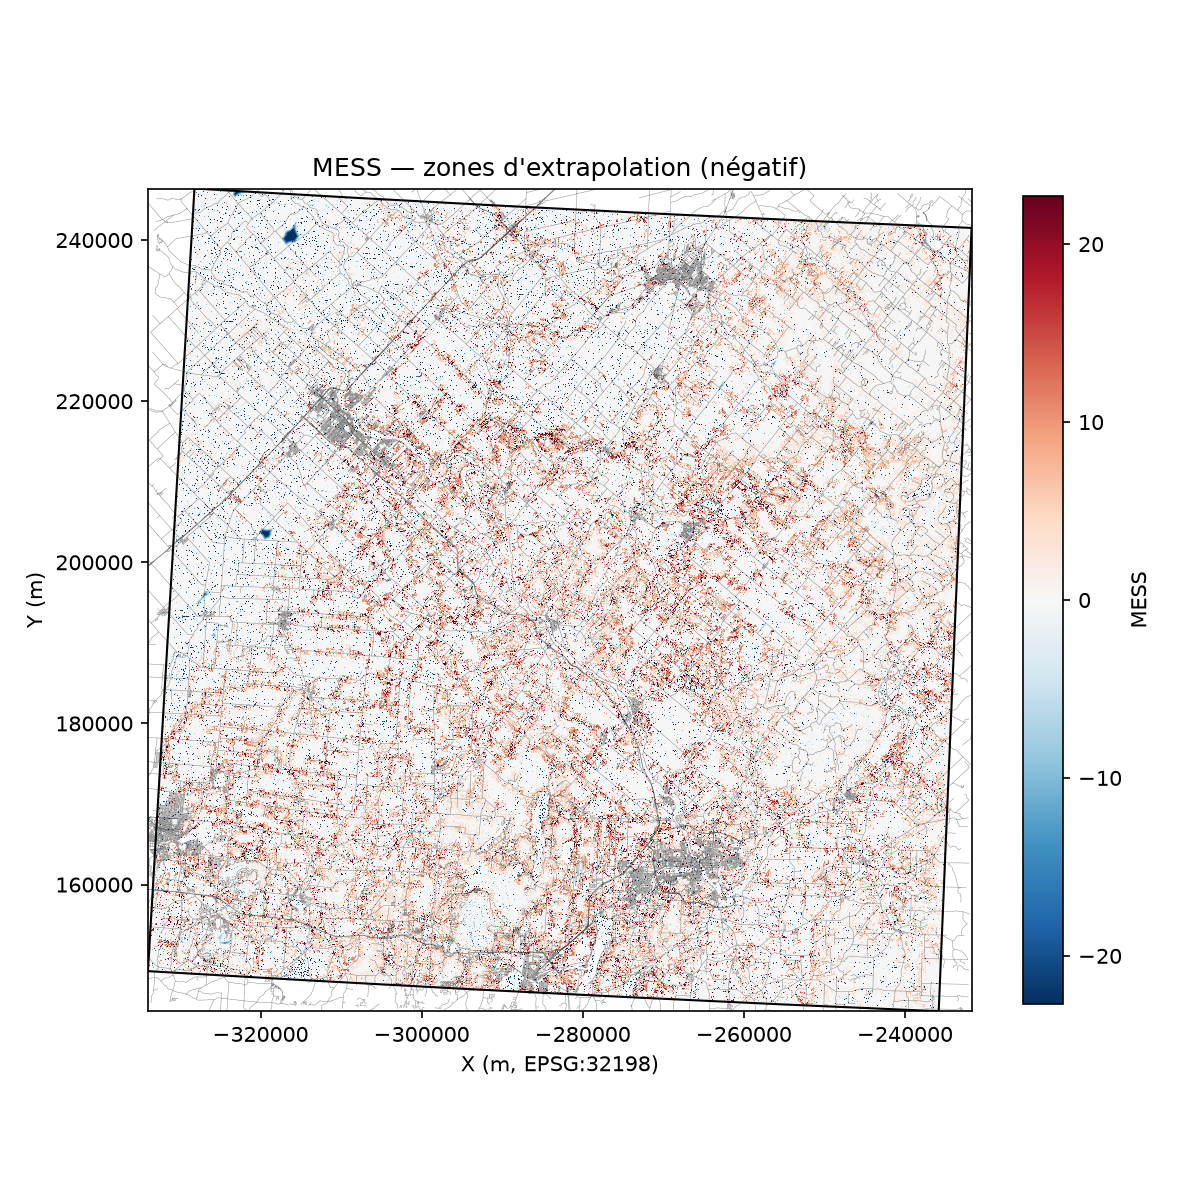
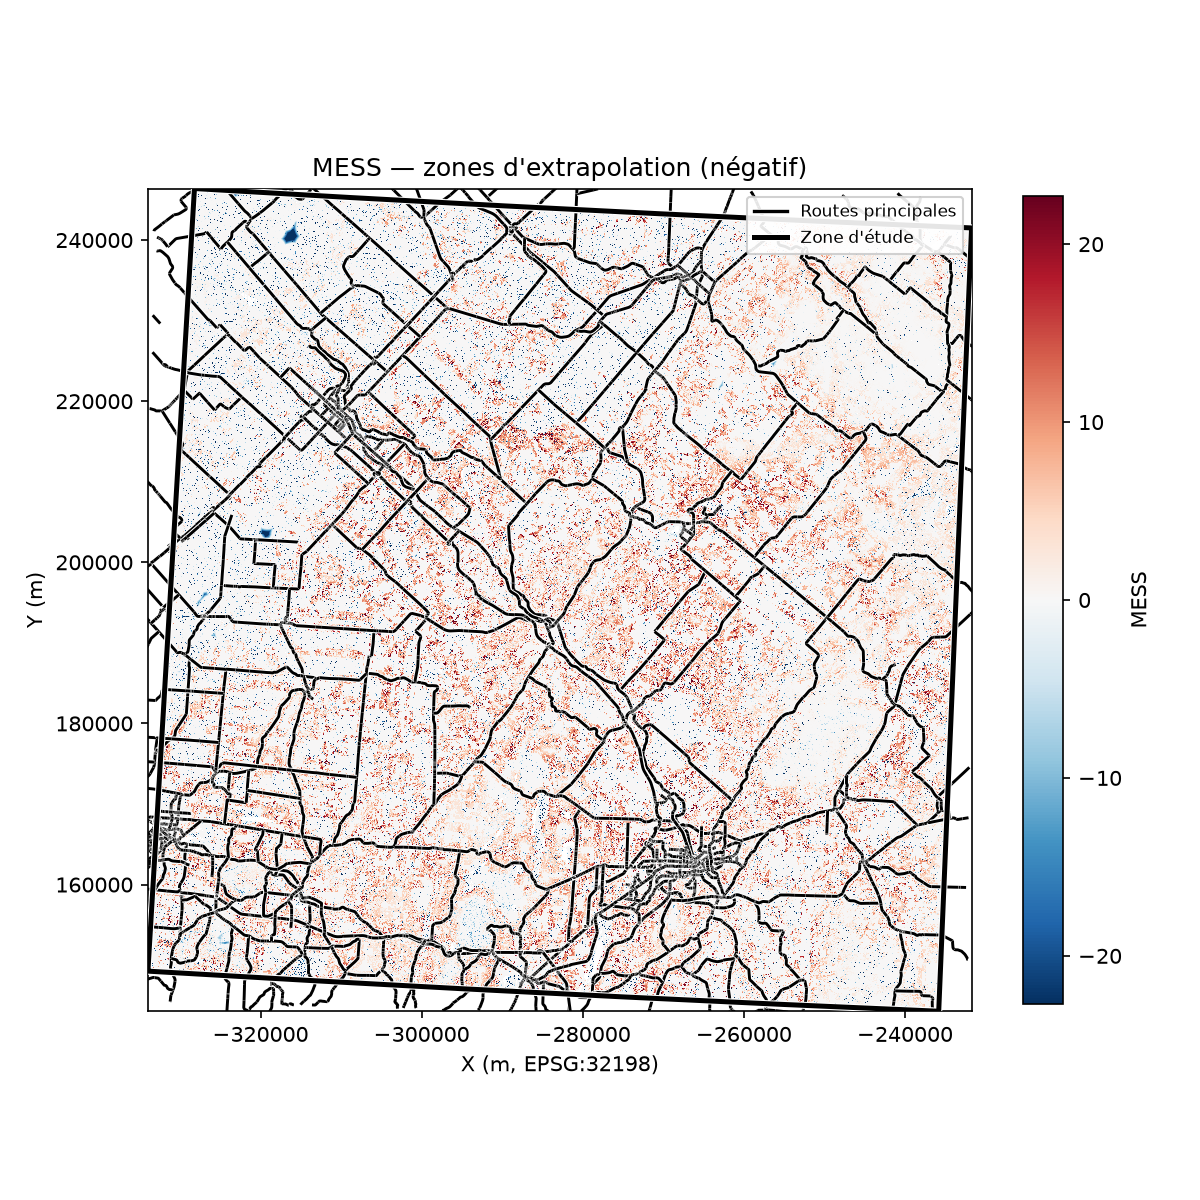
feat(figures): routes principales, légendes, figures SHAP/diagnostic & distribution eBird
- Cartes de résultat : routes principales seulement (config figures.routes_classes_
  principales, 10 531/41 829 tronçons), tracé foncé + liseré blanc (path effects) pour
  la visibilité sur tout fond, et légende (routes/zone/hotspots).
- Carte de localisation : sans hotspots, avec légende.
- Nouvelles figures d'interprétation : SHAP beeswarm (habitat), dépendance SHAP de
  l'élévation (seuil ~130 m), diagnostic du proxy spatial (importance sans/avec x,y).
- Cartes de distribution eBird (observations, toutes checklists, et checklists en
  fenêtre de détection crépuscule→nuit ~5 % de l'effort) : écrites dans
  outputs/figures/prive/ IGNORÉ par Git (espèce en péril + confidentialité eBird).
- Tests : carte routes+légende, fig_points_ebird, figures SHAP/diagnostic.

Changed region(s): [[0.1233, 0.1542, 0.8325, 0.8633]]

diff --git a/code/05_figures.py b/code/05_figures.py
@@ -2,10 +2,11 @@
 
 Génère, à partir des sorties J5/J6, les PNG du rapport :
 - cartes probabilité / incertitude (variance inter-arbres) / MESS — **raster opaque** avec
-  le réseau routier du Québec en surimpression, l'emprise de la zone et les hotspots ;
-- une **carte de localisation** (fond OSM contextily) pour situer la zone d'étude ;
+  les **routes principales** (liseré blanc), l'emprise de la zone, les hotspots et une **légende** ;
+- une **carte de localisation** (fond OSM contextily) pour situer la zone d'étude (sans hotspots) ;
 - importance par permutation (modèle habitat), PDP des 10 variables d'habitat,
-  métriques de validation croisée spatiale (AUC-ROC + TSS par fold, 2 modèles).
+  métriques de validation croisée spatiale (AUC-ROC + TSS par fold, 2 modèles) ;
+- **SHAP** (beeswarm + dépendance de l'élévation) et **diagnostic** du proxy spatial de l'élévation.
 
 Sorties : outputs/figures/*.png
 """
@@ -73,7 +74,9 @@ def _fond_osm(ax, crs, log_warn=True) -> None:
 def fig_carte(raster_path: str, titre: str, label: str, sortie: str, cmap: str = "viridis",
               vmin=None, vmax=None, centre0=False, fidele=False, zone=None, routes=None,
               hotspots=None) -> str:
-    """Carte d'un raster de résultat : raster OPAQUE + routes + emprise + hotspots (sans fond OSM)."""
+    """Carte d'un raster : raster OPAQUE + routes principales + emprise + hotspots + légende."""
+    import matplotlib.patheffects as pe
+    from matplotlib.lines import Line2D
     arr, extent, _ = _lire_decime(raster_path, fidele=fidele)
     if centre0:
         lim = float(np.nanpercentile(np.abs(arr[np.isfinite(arr)]), 98))  # borne robuste (outliers)
@@ -81,16 +84,26 @@ def fig_carte(raster_path: str, titre: str, label: str, sortie: str, cmap: str =
     fig, ax = plt.subplots(figsize=(8, 8))
     im = ax.imshow(arr, extent=extent, origin="upper", cmap=cmap, vmin=vmin, vmax=vmax,
                    interpolation="nearest", zorder=1)
-    if routes is not None:
-        routes.plot(ax=ax, color="0.15", linewidth=0.25, alpha=0.5, zorder=2)
+    halo = [pe.withStroke(linewidth=2.4, foreground="white")]  # filet blanc : routes visibles sur tout fond
+    halo_zone = [pe.withStroke(linewidth=3.4, foreground="white")]
+    handles = []
+    if routes is not None and len(routes):
+        routes.plot(ax=ax, color="black", linewidth=1.4, alpha=1.0, zorder=2, path_effects=halo)
+        handles.append(Line2D([0], [0], color="black", lw=1.6, path_effects=halo,
+                              label="Routes principales"))
     if zone is not None:
-        zone.boundary.plot(ax=ax, edgecolor="black", linewidth=1.0, zorder=3)
+        zone.boundary.plot(ax=ax, edgecolor="black", linewidth=2.4, zorder=3, path_effects=halo_zone)
+        handles.append(Line2D([0], [0], color="black", lw=2.4, path_effects=halo_zone,
+                              label="Zone d'étude"))
     if hotspots is not None and len(hotspots):
         hotspots.boundary.plot(ax=ax, edgecolor="#00ff00", linewidth=1.5, zorder=4)
         for _, h in hotspots.iterrows():
             c = h.geometry.centroid
             ax.annotate(str(h["rang"]), (c.x, c.y), color="#00ff00", fontsize=9, ha="center",
                         va="center", fontweight="bold", zorder=5)
+        handles.append(Line2D([0], [0], color="#00ff00", lw=1.5, label="Hotspots (rang)"))
+    if handles:
+        ax.legend(handles=handles, loc="upper right", fontsize=8, framealpha=0.9)
     ax.set_xlim(extent[0], extent[1])
     ax.set_ylim(extent[2], extent[3])
     ax.set_title(titre)
@@ -103,19 +116,54 @@ def fig_carte(raster_path: str, titre: str, label: str, sortie: str, cmap: str =
     return sortie
 
 
-def fig_localisation(zone, sortie: str, hotspots=None, marge: float = 0.15, fond=True) -> str:
-    """Carte de localisation : emprise de la zone (+ hotspots) sur fond OSM."""
+def fig_localisation(zone, sortie: str, marge: float = 0.15, fond=True) -> str:
+    """Carte de localisation : emprise de la zone d'étude sur fond OSM (sans hotspots)."""
+    from matplotlib.lines import Line2D
     fig, ax = plt.subplots(figsize=(8, 8))
     zone.boundary.plot(ax=ax, edgecolor="red", linewidth=1.8, zorder=3)
-    if hotspots is not None and len(hotspots):
-        hotspots.centroid.plot(ax=ax, color="red", markersize=25, zorder=4)
     minx, miny, maxx, maxy = zone.total_bounds
     dx, dy = (maxx - minx) * marge, (maxy - miny) * marge
     ax.set_xlim(minx - dx, maxx + dx)
     ax.set_ylim(miny - dy, maxy + dy)
     if fond:
         _fond_osm(ax, zone.crs)
+    ax.legend(handles=[Line2D([0], [0], color="red", lw=1.8, label="Zone d'étude")],
+              loc="upper right", fontsize=8, framealpha=0.9)
     ax.set_title("Localisation de la zone d'étude")
+    ax.set_xlabel("X (m, EPSG:32198)")
+    ax.set_ylabel("Y (m)")
+    fig.tight_layout()
+    fig.savefig(sortie, dpi=150)
+    plt.close(fig)
+    return sortie
+
+
+def fig_points_ebird(zone, couches: list[dict], sortie: str, titre: str, marge: float = 0.12,
+                     fond=True) -> str:
+    """Carte de points eBird sur fond OSM (distribution spatiale).
+
+    `couches` : liste de dicts {x, y, couleur, taille?, alpha?, edge?, label}, tracés dans l'ordre.
+    ⚠ Données sensibles (espèce en péril + confidentialité eBird) : à écrire hors dépôt.
+    """
+    from matplotlib.lines import Line2D
+    fig, ax = plt.subplots(figsize=(8, 8))
+    zone.boundary.plot(ax=ax, edgecolor="black", linewidth=1.5, zorder=2)
+    handles = [Line2D([0], [0], color="black", lw=1.5, label="Zone d'étude")]
+    for i, c in enumerate(couches):
+        ax.scatter(np.asarray(c["x"]), np.asarray(c["y"]), s=c.get("taille", 18), color=c["couleur"],
+                   edgecolors=c.get("edge", "none"), linewidths=0.3, alpha=c.get("alpha", 1.0),
+                   zorder=3 + i)
+        handles.append(Line2D([0], [0], marker="o", linestyle="", markerfacecolor=c["couleur"],
+                              markeredgecolor=c.get("edge", "none"), markersize=7,
+                              alpha=min(c.get("alpha", 1.0) + 0.4, 1.0), label=c["label"]))
+    minx, miny, maxx, maxy = zone.total_bounds
+    dx, dy = (maxx - minx) * marge, (maxy - miny) * marge
+    ax.set_xlim(minx - dx, maxx + dx)
+    ax.set_ylim(miny - dy, maxy + dy)
+    if fond:
+        _fond_osm(ax, zone.crs)
+    ax.legend(handles=handles, loc="upper right", fontsize=8, framealpha=0.9)
+    ax.set_title(titre)
     ax.set_xlabel("X (m, EPSG:32198)")
     ax.set_ylabel("Y (m)")
     fig.tight_layout()
@@ -183,6 +231,65 @@ def fig_metriques_cv(rapport: dict, sortie: str) -> str:
     return sortie
 
 
+def fig_shap(npz_path: str, sortie: str, max_display: int = 10) -> str:
+    """Beeswarm SHAP (modèle habitat, classe présence) : contribution de chaque variable par checklist."""
+    import shap
+    d = np.load(npz_path, allow_pickle=True)
+    noms = [ETIQUETTES.get(f, f) for f in d["features"].tolist()]
+    shap.summary_plot(d["values"], d["data"], feature_names=noms, max_display=max_display,
+                      show=False, plot_size=(8, 6), color_bar_label="Valeur de la variable")
+    fig = plt.gcf()
+    fig.axes[0].set_xlabel("Valeur SHAP (→ probabilité de présence)")
+    fig.suptitle("SHAP — contributions à la probabilité de présence (modèle habitat)", fontsize=11)
+    fig.tight_layout()
+    fig.savefig(sortie, dpi=150)
+    plt.close(fig)
+    return sortie
+
+
+def fig_shap_elevation(npz_path: str, sortie: str) -> str:
+    """Dépendance SHAP de l'élévation : valeur SHAP vs élévation, présences/absences distinguées."""
+    d = np.load(npz_path, allow_pickle=True)
+    feats = d["features"].tolist()
+    j = feats.index("elevation")
+    elev, sv, pres = d["data"][:, j], d["values"][:, j], d["presence"].astype(bool)
+    fig, ax = plt.subplots(figsize=(7, 5))
+    ax.axhline(0, color="0.6", lw=0.8, zorder=1)
+    ax.scatter(elev[~pres], sv[~pres], s=8, alpha=0.3, color="#4575b4", label="absence", zorder=2)
+    ax.scatter(elev[pres], sv[pres], s=20, alpha=0.9, color="#d73027", label="présence", zorder=3)
+    ax.set_xlabel(ETIQUETTES["elevation"])
+    ax.set_ylabel("Valeur SHAP (→ probabilité de présence)")
+    ax.set_title("Dépendance SHAP — élévation")
+    ax.legend(fontsize=8, framealpha=0.9)
+    fig.tight_layout()
+    fig.savefig(sortie, dpi=150)
+    plt.close(fig)
+    return sortie
+
+
+def fig_diagnostic_elevation(diag: dict, sortie: str) -> str:
+    """Diagnostic proxy spatial : importance de l'élévation sans/avec coordonnées + importance de x,y."""
+    labels = ["élévation\n(sans x,y)", "élévation\n(avec x,y)", "x", "y"]
+    vals = [diag["elevation_sans_coords"]["importance"], diag["elevation_avec_coords"]["importance"],
+            diag["coords"]["x"]["importance"], diag["coords"]["y"]["importance"]]
+    couleurs = ["#2c7fb8", "#7fcdbb", "#d95f0e", "#d95f0e"]
+    fig, ax = plt.subplots(figsize=(7, 5))
+    barres = ax.bar(labels, vals, color=couleurs)
+    ax.set_ylabel("Importance par permutation (chute d'AUC-ROC)")
+    ax.set_title("L'élévation est-elle un proxy spatial ?")
+    for b, v in zip(barres, vals):
+        ax.annotate(f"{v:.3f}", (b.get_x() + b.get_width() / 2, v), ha="center", va="bottom",
+                    fontsize=8)
+    txt = (f"R²(élévation ~ x,y) = {diag['r2_elevation_xy']:.2f}\n"
+           f"AUC habitat : {diag['auc_habitat']:.3f} → {diag['auc_habitat_xy']:.3f} (avec x,y)")
+    ax.text(0.98, 0.97, txt, transform=ax.transAxes, ha="right", va="top", fontsize=9,
+            bbox=dict(boxstyle="round", fc="white", ec="0.7", alpha=0.9))
+    fig.tight_layout()
+    fig.savefig(sortie, dpi=150)
+    plt.close(fig)
+    return sortie
+
+
 def main() -> None:
     import geopandas as gpd
 
@@ -197,12 +304,58 @@ def main() -> None:
     zone = gpd.read_file(cfg.zone_etude.gpkg).to_crs(cfg.zone_etude.crs)
     routes_path = Path(cfg.chemins.interim) / "routes_zone.gpkg"
     routes = gpd.read_file(routes_path).to_crs(cfg.zone_etude.crs) if routes_path.exists() else None
+    if routes is not None and "ClsRte" in routes.columns:  # cartes = routes principales seulement
+        routes = routes[routes["ClsRte"].isin(cfg.figures.routes_classes_principales)]
+        log.info("  routes principales retenues : %d tronçons (%s)", len(routes),
+                 ", ".join(cfg.figures.routes_classes_principales))
     hs_path = Path(out) / "tables" / "hotspots.gpkg"
     hotspots = gpd.read_file(hs_path) if hs_path.exists() else None
     produits: dict = {}
 
-    with utils.log_step("Carte de localisation (fond OSM)", log):
-        produits["localisation"] = fig_localisation(zone, str(fig_dir / "localisation.png"), hotspots)
+    with utils.log_step("Carte de localisation (fond OSM, sans hotspots)", log):
+        produits["localisation"] = fig_localisation(zone, str(fig_dir / "localisation.png"))
+
+    # Cartes de distribution eBird — DONNÉES SENSIBLES (espèce en péril + confidentialité eBird).
+    # Écrites dans outputs/figures/prive/ (ignoré par Git) : jamais versionnées ni publiées.
+    table = Path(cfg.chemins.processed) / "table_modele.parquet"
+    if table.exists():
+        import polars as pl
+        prive = fig_dir / "prive"
+        prive.mkdir(exist_ok=True)
+        df = pl.read_parquet(table, columns=["x", "y", "presence", "minutes_apres_coucher"])
+        pres = df.filter(pl.col("presence") == 1)
+        absc = df.filter(pl.col("presence") == 0)
+        col = lambda d, c: d[c].to_numpy()  # noqa: E731
+        with utils.log_step("Cartes eBird observations/checklists [privé, hors dépôt]", log):
+            produits["observations"] = fig_points_ebird(
+                zone, [dict(x=col(pres, "x"), y=col(pres, "y"), couleur="#d73027", taille=26,
+                            edge="white", label=f"Présences ({len(pres)})")],
+                str(prive / "carte_observations.png"),
+                f"Détections — {cfg.espece.nom_commun} (n={len(pres)})")
+            produits["checklists"] = fig_points_ebird(
+                zone,
+                [dict(x=col(absc, "x"), y=col(absc, "y"), couleur="#4575b4", taille=4, alpha=0.25,
+                      label=f"Sans détection ({len(absc)})"),
+                 dict(x=col(pres, "x"), y=col(pres, "y"), couleur="#d73027", taille=16, edge="white",
+                      label=f"Présences ({len(pres)})")],
+                str(prive / "carte_checklists.png"),
+                f"Checklists d'inventaire (n={len(df)})")
+
+            # Checklists à une heure PERTINENTE pour un nocturne (fenêtre crépuscule → nuit).
+            lo, hi = cfg.figures.fenetre_detection_apres_coucher_min
+            fen = pl.col("minutes_apres_coucher").is_between(lo, hi)
+            det, det_a, det_p = df.filter(fen), absc.filter(fen), pres.filter(fen)
+            pct = 100 * len(det) / len(df)
+            log.info("  fenêtre détection [%g, %g] min : %d checklists (%.1f%% de l'effort), "
+                     "%d/%d présences", lo, hi, len(det), pct, len(det_p), len(pres))
+            produits["checklists_detection"] = fig_points_ebird(
+                zone,
+                [dict(x=col(det_a, "x"), y=col(det_a, "y"), couleur="#4575b4", taille=10, alpha=0.5,
+                      label=f"Sans détection ({len(det_a)})"),
+                 dict(x=col(det_p, "x"), y=col(det_p, "y"), couleur="#d73027", taille=18,
+                      edge="white", label=f"Présences ({len(det_p)})")],
+                str(prive / "carte_checklists_detection.png"),
+                f"Checklists en période de détection — n={len(det)} ({pct:.0f} % de l'effort)")
 
     with utils.log_step("Cartes de résultat (proba, incertitude, MESS + routes)", log):
         produits["carte_proba"] = fig_carte(
@@ -223,6 +376,21 @@ def main() -> None:
             str(fig_dir / "importance_habitat.png"))
         produits["pdp"] = fig_pdp(pdp, str(fig_dir / "pdp_habitat.png"))
         produits["metriques_cv"] = fig_metriques_cv(rapport_model, str(fig_dir / "metriques_cv.png"))
+
+    shap_npz = Path(out) / "models" / "shap_habitat.npz"
+    if shap_npz.exists():
+        with utils.log_step("Figures SHAP (beeswarm + dépendance élévation)", log):
+            produits["shap"] = fig_shap(str(shap_npz), str(fig_dir / "shap_habitat.png"))
+            produits["shap_elevation"] = fig_shap_elevation(
+                str(shap_npz), str(fig_dir / "shap_elevation.png"))
+    else:
+        log.warning("shap_habitat.npz absent — figures SHAP ignorées (relancer 03_model.py)")
+
+    diag = rapport_model.get("diagnostic_elevation")
+    if diag:
+        with utils.log_step("Figure diagnostic élévation (proxy spatial)", log):
+            produits["diagnostic_elevation"] = fig_diagnostic_elevation(
+                diag, str(fig_dir / "diagnostic_elevation.png"))
 
     for nom, chemin in produits.items():
         log.info("  %s → %s", nom, chemin)

diff --git a/tests/test_figures.py b/tests/test_figures.py
@@ -69,6 +69,42 @@ def test_fig_localisation(tmp_path):
     assert _existe_non_vide(out)
 
 
+def test_fig_carte_routes_hotspots_legende(tmp_path):
+    """Carte avec routes principales + emprise + hotspots → exerce légende et liseré (path effects)."""
+    import geopandas as gpd
+    from shapely.geometry import LineString, box
+    m = _charger_figures()
+    raster = tmp_path / "r.tif"
+    _mini_raster(raster)  # extent : x [-300000, -299750], y [199750, 200000]
+    zone = gpd.GeoDataFrame(geometry=[box(-300000, 199750, -299750, 200000)], crs="EPSG:32198")
+    routes = gpd.GeoDataFrame(
+        {"ClsRte": ["Autoroute"]},
+        geometry=[LineString([(-300000, 199800), (-299800, 199950)])], crs="EPSG:32198")
+    hotspots = gpd.GeoDataFrame(
+        {"rang": [1]}, geometry=[box(-299950, 199800, -299900, 199850)], crs="EPSG:32198")
+    out = tmp_path / "carte_full.png"
+    m.fig_carte(str(raster), "titre", "valeur", str(out), vmin=0, vmax=1,
+                zone=zone, routes=routes, hotspots=hotspots)
+    assert _existe_non_vide(out)
+
+
+def test_fig_points_ebird(tmp_path):
+    import geopandas as gpd
+    from shapely.geometry import box
+    m = _charger_figures()
+    zone = gpd.GeoDataFrame(geometry=[box(-300000, 190000, -290000, 200000)], crs="EPSG:32198")
+    rng = np.random.default_rng(5)
+    couches = [
+        dict(x=rng.uniform(-300000, -290000, 40), y=rng.uniform(190000, 200000, 40),
+             couleur="#4575b4", taille=4, alpha=0.3, label="sans détection"),
+        dict(x=rng.uniform(-300000, -290000, 8), y=rng.uniform(190000, 200000, 8),
+             couleur="#d73027", edge="white", label="présences"),
+    ]
+    out = tmp_path / "pts.png"
+    m.fig_points_ebird(zone, couches, str(out), "titre", fond=False)  # fond=False : pas de réseau
+    assert _existe_non_vide(out)
+
+
 def test_fig_importance(tmp_path):
     m = _charger_figures()
     imp = [dict(variable="elevation", importance=0.11, ecart_type=0.01),
@@ -99,4 +135,51 @@ def test_fig_metriques_cv(tmp_path):
     }
     out = tmp_path / "cv.png"
     m.fig_metriques_cv(rapport, str(out))
+    assert _existe_non_vide(out)
+
+
+# ── Figures SHAP & diagnostic élévation ──────────────────────────────────────
+
+_FEATURES_HABITAT = ["MHC_hauteur_canopee", "TWI", "densite_lisiere", "prop_feuillu_melange",
+                     "densite_routes", "LST_estivale", "classe_age", "densite_peuplement",
+                     "distance_milieu_humide", "elevation"]
+
+
+def _mini_shap_npz(path, n=60):
+    rng = np.random.default_rng(3)
+    np.savez_compressed(
+        path, values=rng.normal(0, 0.05, (n, len(_FEATURES_HABITAT))).astype("float32"),
+        data=rng.random((n, len(_FEATURES_HABITAT))).astype("float32"),
+        presence=(rng.random(n) < 0.2).astype(int), base_value=np.float64(0.1),
+        features=np.array(_FEATURES_HABITAT))
+
+
+def test_fig_shap(tmp_path):
+    pytest.importorskip("shap")
+    m = _charger_figures()
+    npz = tmp_path / "shap.npz"
+    _mini_shap_npz(npz)
+    out = tmp_path / "shap.png"
+    m.fig_shap(str(npz), str(out))
+    assert _existe_non_vide(out)
+
+
+def test_fig_shap_elevation(tmp_path):
+    m = _charger_figures()  # figure manuelle : pas de dépendance à shap au tracé
+    npz = tmp_path / "shap.npz"
+    _mini_shap_npz(npz)
+    out = tmp_path / "shap_elev.png"
+    m.fig_shap_elevation(str(npz), str(out))
+    assert _existe_non_vide(out)
+
+
+def test_fig_diagnostic_elevation(tmp_path):
+    m = _charger_figures()
+    diag = dict(r2_elevation_xy=0.36, corr_elevation_x=0.42, corr_elevation_y=-0.40,
+                elevation_sans_coords=dict(importance=0.11, rang=1),
+                elevation_avec_coords=dict(importance=0.05, rang=4),
+                coords=dict(x=dict(importance=0.07, rang=2), y=dict(importance=0.06, rang=3)),
+                auc_habitat=0.86, auc_habitat_xy=0.87)
+    out = tmp_path / "diag.png"
+    m.fig_diagnostic_elevation(diag, str(out))
     assert _existe_non_vide(out)
